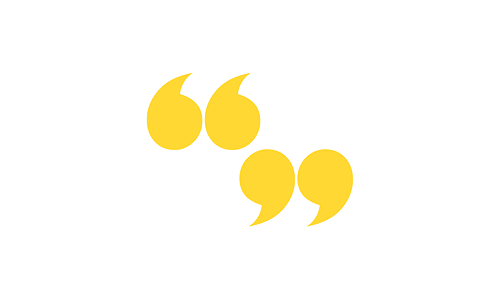
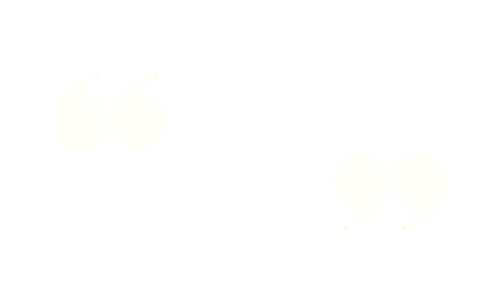
:sparkles: Added new components for homepage content
- Clean Homepage content and break into smaller components
- Add components for more info

Changed region(s): [[0.27, 0.24, 0.72, 0.75]]

diff --git a/src/components/HomepageAboutMe/homepageAboutMe.jsx b/src/components/HomepageAboutMe/homepageAboutMe.jsx
@@ -1,18 +1,16 @@
 import { HeartIcon } from "@heroicons/react/24/outline";
 import surbhiImage from "../../assets/images/surbhi-image.jpg";
-import healingImage from "../../assets/images/healing-image.jpg";
 import backgroundImage from "../../assets/images/background.jpg";
-import leftquote from "../../assets/svg/lquote.svg";
-import rightquote from "../../assets/svg/rquote.svg";
-import { Link } from "react-router-dom";
 
 const features = [
   {
+    name: 1,
     description:
       "Healing is work that takes you beyond cures and quick fixes. It is a bit by bit building of your life energies to repair and restore. Restoring your spirit, your connection to your Self, to Mother Earth and to Life itself. ",
     icon: HeartIcon,
   },
   {
+    name: 2,
     description:
       "Healing happens when you take charge of your life and take full responsibility for yourself. When you step into Your Story and recreate the life that you always intended for yourself. ",
     icon: HeartIcon,
@@ -53,11 +51,11 @@ const HomepageAboutMe = () => {
           </p>
         </div>
         <div className="mx-auto mt-16 max-w-2xl sm:mt-20 lg:mt-24 lg:max-w-4xl">
-          <dl className="grid max-w-xl grid-cols-1 gap-y-10 gap-x-8 lg:max-w-none lg:grid-cols-2 lg:gap-y-16">
+          <dl className="grid grid-cols-1 gap-y-10 gap-x-8 lg:max-w-none lg:grid-cols-2 lg:gap-y-16">
             {features.map((feature) => (
-              <div key={feature.name} className="relative pl-16">
+              <div key={feature.name} className="relative md:pl-16">
                 <dt className="text-base font-semibold leading-7 text-slate-900">
-                  <div className="absolute top-0 left-0 flex h-10 w-10 items-center justify-center rounded-lg bg-none">
+                  <div className="md:absolute md:top-0 md:left-0 flex h-10 w-10 items-center justify-center rounded-lg bg-none mx-auto">
                     <feature.icon
                       className="h-6 md:h-8 md:w-8 text-purple-700 fill-purple-700"
                       aria-hidden="true"
@@ -70,49 +68,6 @@ const HomepageAboutMe = () => {
               </div>
             ))}
           </dl>
-        </div>
-        <div className="my-12 md:my-20 grid grid-rows-2 grid-cols-1 md:grid-rows-1 md:grid-cols-2">
-          <div
-            style={{
-              backgroundImage: `url(${healingImage})`,
-              backgroundRepeat: "no-repeat",
-              backgroundSize: "cover",
-              backgroundPosition: "center",
-              height: "500px",
-            }}
-            className="flex justify-center items-center"
-          >
-            <p className="mx-auto text-white text-lg font-bold px-20">
-              <span>
-                <img className="w-4" src={leftquote} alt="Left Quote Sign" />
-              </span>
-              After nourishment, shelter and companionship, stories are the
-              thing we need most in the world.
-              <span className="flex justify-end">
-                <img
-                  className="w-4 right-0"
-                  src={rightquote}
-                  alt="Left Quote Sign"
-                />
-              </span>
-              <br />- Philip Pullman
-            </p>
-          </div>
-          <div className="flex flex-col justify-center items-center">
-            <p className="p-12 md:p-24 text-xl md:text-2xl text-emerald-700 font-semibold leading-8">
-              My work as a healer is to shine the light on your journey and
-              empower you to claim back your power. The unfolding miracles of
-              change, hope and transformation that I see in my clients are
-              treasures that I receive along the way.
-            </p>
-            <Link to="/about">
-                <button 
-                    className="focus:outline-none focus:shadow-outline bg-emerald-600 text-white font-bold py-2 px-16 rounded-full cursor-pointer hover:bg-emerald-700"
-                >
-                    Learn More
-                </button>
-            </Link>
-          </div>
         </div>
       </div>
     </div>

diff --git a/src/components/ContactForm/contactform.jsx b/src/components/ContactForm/contactform.jsx
@@ -47,7 +47,7 @@ class ContactForm extends React.Component {
               </label>
               <input
                 type="email"
-                className="bg-white text-emerald-600 autofill:!bg-white autofill:text-emerald-600 focus:outline-none focus:shadow-outline border border-emerald-300 rounded-lg py-2 px-4 block w-full appearance-none leading-normal"
+                className="bg-white text-emerald-700 autofill:shadow-none autofill:bg-white autofill:text-emerald-600 focus:outline-none focus:shadow-outline border border-emerald-300 rounded-lg py-2 px-4 block w-full appearance-none leading-normal"
                 name="EMAIL"
                 id="MERGE0"
                 value={this.state.emailValue}
@@ -65,7 +65,7 @@ class ContactForm extends React.Component {
               </label>
               <input
                 type="text"
-                className="bg-white focus:bg-white focus:outline-none focus:shadow-outline border border-emerald-300 rounded-lg py-2 px-4 block w-full appearance-none leading-normal"
+                className="bg-white text-emerald-700 focus:bg-white focus:outline-none focus:shadow-outline border border-emerald-300 rounded-lg py-2 px-4 block w-full appearance-none leading-normal"
                 name="FNAME"
                 id="MERGE1"
                 value={this.state.fNameValue}
@@ -81,7 +81,7 @@ class ContactForm extends React.Component {
               </label>
               <input
                 type="text"
-                className="bg-white focus:outline-none focus:shadow-outline border border-emerald-300 rounded-lg py-2 px-4 block w-full appearance-none leading-normal"
+                className="bg-white text-emerald-700 focus:outline-none focus:shadow-outline border border-emerald-300 rounded-lg py-2 px-4 block w-full appearance-none leading-normal"
                 name="LNAME"
                 id="MERGE2"
                 value={this.state.lNameValue}
@@ -97,12 +97,12 @@ class ContactForm extends React.Component {
               </label>
               <textarea
                 type="textarea"
-                className="bg-white focus:outline-none focus:shadow-outline border border-emerald-300 rounded-lg py-2 px-4 block w-full appearance-none leading-normal"
+                className="bg-white text-emerald-700 focus:outline-none focus:shadow-outline border border-emerald-300 rounded-lg py-2 px-4 block w-full appearance-none leading-normal"
                 name="DESC"
                 id="MERGE3"
-                value={this.state.lNameValue}
+                value={this.state.descValue}
                 onChange={(e) => {
-                  this.setState({ lNameValue: e.target.value });
+                  this.setState({ descValue: e.target.value });
                 }}
               />
               <input

diff --git a/src/components/TestimonialsSlider/testimonialsSlider.jsx b/src/components/TestimonialsSlider/testimonialsSlider.jsx
@@ -4,7 +4,7 @@ import React, { useEffect } from "react";
 import Glide from "@glidejs/glide";
 import "@glidejs/glide/dist/css/glide.core.css";
 import "./styles.css";
-import testimonialBg from "../../assets/images/testimonial-bg.png";
+import testimonialBg from "../../assets/images/testimonial-bg-2.png";
 import { ArrowRightIcon, ArrowLeftIcon } from "@heroicons/react/24/outline";
 
 const sliderConfiguration = {
@@ -38,7 +38,7 @@ const TestimonialsSlider = () => {
       author: "MS, Mumbai"
     },
     {
-      quote: "I had a swollen foot and actue pain. I was under medication for around 25 days but recovering very slowly. Healing helped me to recover very fast and the pain has almost vanished. Thanks.",
+      quote: "I had a swollen foot and acute pain. I was under medication for around 25 days but recovering very slowly. Healing helped me to recover very fast and the pain has almost vanished. Thanks.",
       author: "SM, Bhubaneswar"
     },
     {
@@ -51,10 +51,10 @@ const TestimonialsSlider = () => {
   return (
     <>
       {" "}
-      <div className="bg-white py-8 md:py-10">
+      <div className="bg-violet-900 py-8 md:py-10">
         <div className="container mx-auto px-4">
           <div className="flex flex-col items-center justify-center">
-            <h2 className="my-5 text-2xl md:text-4xl font-bold text-emerald-700">
+            <h2 className="my-5 text-2xl md:text-4xl font-bold text-white">
               What People Say
             </h2>
           </div>
@@ -72,8 +72,8 @@ const TestimonialsSlider = () => {
                               backgroundRepeat: 'no-repeat',
                               backgroundSize: 'cover',
                           }}>
-                          <p className="p-4 font-bold text-slate-700 text-xl md:text-3xl">{quote.quote}</p>
-                          <p className="p-2 font-semibold text-slate-500 text-lg md:text-xl">- {quote.author}</p>
+                          <p className="p-4 font-bold text-emerald-400 text-xl md:text-3xl">{quote.quote}</p>
+                          <p className="p-2 font-semibold text-slate-100 text-lg md:text-xl">- {quote.author}</p>
                         </li>
                       </div>
                     )

diff --git a/src/components/SplitImageText/splitImageText.jsx b/src/components/SplitImageText/splitImageText.jsx
@@ -1,0 +1,59 @@
+import React from 'react';
+import healingImage from '../../assets/images/healing-image.jpg';
+import leftquote from '../../assets/svg/lquote.svg';
+import rightquote from '../../assets/svg/rquote.svg';
+import { Link } from 'react-router-dom';
+
+const SplitImageText = (props) => {
+
+    console.log(props)
+
+    return (
+        <div className="bg-emerald-700 grid grid-rows-2 grid-cols-1 lg:grid-rows-1 lg:grid-cols-2">
+        <div
+          style={{
+            backgroundImage: `url(${healingImage})`,
+            backgroundRepeat: "no-repeat",
+            backgroundSize: "cover",
+            backgroundPosition: "center",
+            height: "600px",
+          }}
+          className="flex justify-center items-center h-5/6"
+        >
+          <p className="mx-auto text-white text-lg font-bold px-20">
+            <span>
+              <img className="w-4" src={leftquote} alt="Left Quote Sign" />
+            </span>
+            After nourishment, shelter and companionship, stories are the
+            thing we need most in the world.
+            <span className="flex justify-end">
+              <img
+                className="w-4 right-0"
+                src={rightquote}
+                alt="Left Quote Sign"
+              />
+            </span>
+            <br />- Philip Pullman
+          </p>
+        </div>
+        <div className="flex flex-col justify-center items-center">
+          <p className="p-5 md:p-24 text-xl md:text-2xl text-white font-semibold leading-8">
+            My work as a healer is to shine the light on your journey and
+            empower you to claim back your power. The unfolding miracles of
+            change, hope and transformation that I see in my clients are
+            treasures that I receive along the way.
+          </p>
+          <Link to="/about">
+              <button 
+                  className="focus:outline-none focus:shadow-outline bg-white text-violet-700 font-bold py-2 px-16 rounded-full cursor-pointer hover:text-white hover:bg-violet-700"
+              >
+                  Learn More
+              </button>
+          </Link>
+        </div>
+      </div>
+    );
+};
+
+export default SplitImageText;
+    

diff --git a/src/components/HomepageMoreInfo/homepageMoreInfo.jsx b/src/components/HomepageMoreInfo/homepageMoreInfo.jsx
@@ -1,0 +1,36 @@
+import React from 'react';
+import zenImage from '../../assets/images/background.jpg';
+import { Link } from 'react-router-dom';
+
+const HomepageMoreInfo = () => {
+
+    return (
+        <div style={{
+          backgroundImage: `url(${zenImage})`,
+          backgroundRepeat: "no-repeat",
+          backgroundSize: "cover",
+          backgroundPosition: "center",
+        }}>
+          <div className="flex flex-col justify-center items-center">
+            <p className="p-5 md:pt-24 md:px-24 text-xl md:text-2xl text-emerald-700 font-semibold leading-8">
+              I work 1:1, conduct workshops, performance storytelling and meditation circles both offline and online. I have worked for more than eight years with children and parents on parenting related issues, social emotional learning, and mental well-being of children. 
+              <br /><br />
+              I use an eclectic mix of modalities such as art therapy, positive psychology, acceptance and commitment therapy, storytelling, guided imagery, and energy healing. In the past three years I have added pranic healing to my skill set of modalities and have seen wonderful results with it. 
+              <br /><br />
+              I use storytelling both in my counselling practice as well in group settings. Stories are potent healing sources that serve us according to our need. They serve as guides to bring insights into our problems, bridges to help us form meaningful connections, food to nourish our emotions and mind and tonic to rejuvenate our inner life. 
+              <br /><br />
+              In sharing stories I experience that the teller, listener and the space in between, all become touched by joy and wonder. 
+              <br /><br />
+            </p>
+            <Link to="/about">
+                <button className="focus:outline-none focus:shadow-outline border-violet-700 bg-violet-700 text-white font-bold py-2 px-16 rounded-full cursor-pointer hover:text-white hover:bg-violet-900 mb-12">
+                    Let's Discuss
+                </button>
+            </Link>
+          </div>
+      </div>
+    );
+};
+
+export default HomepageMoreInfo;
+    

diff --git a/src/components/Footer/footer.jsx b/src/components/Footer/footer.jsx
@@ -6,14 +6,14 @@ export default function Footer() {
     return (
         <footer className="p-4 sm:p-6 bg-yellow-50">
             <div>
-                <a href="#" className="mx-auto md:hidden">
+                <a href="/contact" className="mx-auto md:hidden">
                     <span className="self-center text-3xl font-semibold whitespace-nowrap text-violet-700 mb-7">Let's Chat</span>
                 </a>
                 <hr className="my-4 border-gray-800 sm:mx-auto md:hidden" />
             </div>
             <div className="max-w-7xl mx-auto flex justify-center md:justify-between">
                 <div>
-                    <a href="#" className="mx-auto hidden md:block">
+                    <a href="/contact" className="mx-auto hidden md:block">
                         <span className="self-center text-3xl font-semibold whitespace-nowrap text-violet-700">Let's Chat</span>
                     </a>
                 </div>

diff --git a/src/pages/home.jsx b/src/pages/home.jsx
@@ -2,13 +2,24 @@ import React from 'react';
 import Masthead from '../components/Masthead/masthead';
 import HomepageAboutMe from '../components/HomepageAboutMe/homepageAboutMe';
 import TestimonialsSlider from '../components/TestimonialsSlider/testimonialsSlider';
+import SplitImageText from '../components/SplitImageText/splitImageText';
+import HomepageMoreInfo from '../components/HomepageMoreInfo/homepageMoreInfo';
 
 export default function Home(){
+
+    const props = {
+        title: "My Title",
+        subtitle: "My Subtitle",
+        description: "My Description"
+    }
+
     return (
         <div>
             <Masthead />
             <HomepageAboutMe />
+            <SplitImageText props={props} />
             <TestimonialsSlider />
+            <HomepageMoreInfo />
         </div>
     )
 }
